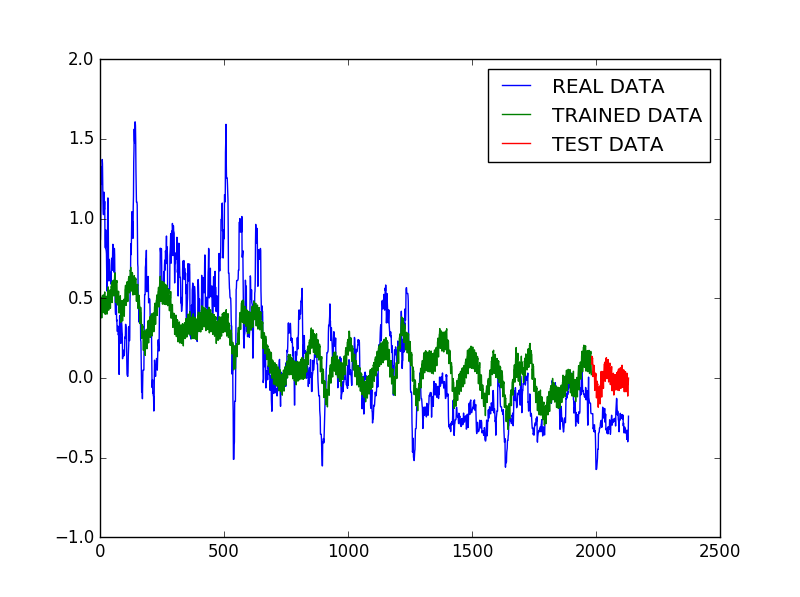
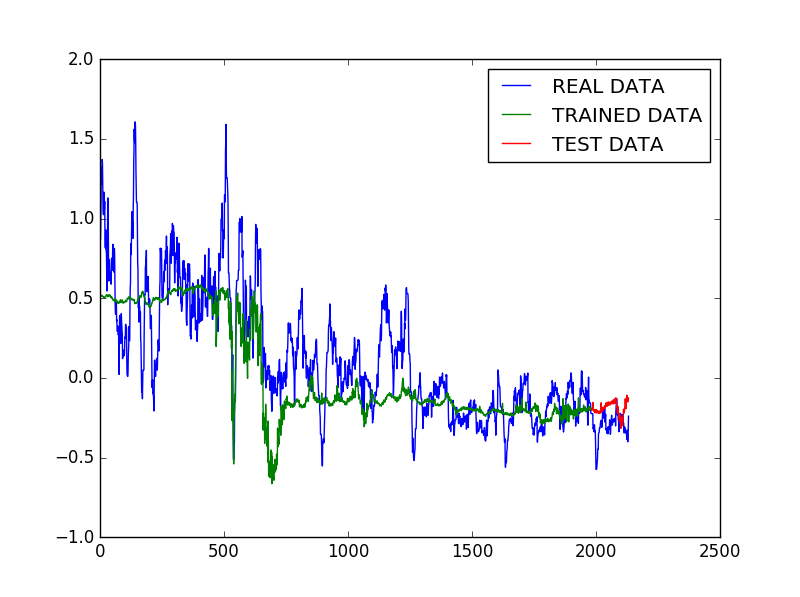
Added RELU

Changed region(s): [[0.125, 0.4523, 0.8125, 0.8141]]

diff --git a/tf_benchmark.py b/tf_benchmark.py
@@ -59,13 +59,13 @@ biases = {
 
 # Create model
 def multilayer_perceptron(x):
-    layer_1 = tf.add(tf.matmul(x, weights['h1']), biases['b1'])
-    layer_2 = tf.add(tf.matmul(layer_1, weights['h2']), biases['b2'])
-    layer_3 = tf.add(tf.matmul(layer_2, weights['h3']), biases['b3'])
-    layer_4 = tf.add(tf.matmul(layer_3, weights['h4']), biases['b4'])
-    layer_5 = tf.add(tf.matmul(layer_4, weights['h5']), biases['b5'])
-    layer_6 = tf.add(tf.matmul(layer_5, weights['h6']), biases['b6'])
-    layer_7 = tf.add(tf.matmul(layer_6, weights['h7']), biases['b7'])
+    layer_1 = tf.nn.relu(tf.add(tf.matmul(x, weights['h1']), biases['b1']))
+    layer_2 = tf.nn.relu(tf.add(tf.matmul(layer_1, weights['h2']), biases['b2']))
+    layer_3 = tf.nn.relu(tf.add(tf.matmul(layer_2, weights['h3']), biases['b3']))
+    layer_4 = tf.nn.relu(tf.add(tf.matmul(layer_3, weights['h4']), biases['b4']))
+    layer_5 = tf.nn.relu(tf.add(tf.matmul(layer_4, weights['h5']), biases['b5']))
+    layer_6 = tf.nn.relu(tf.add(tf.matmul(layer_5, weights['h6']), biases['b6']))
+    layer_7 = tf.nn.relu(tf.add(tf.matmul(layer_6, weights['h7']), biases['b7']))
     out_layer = tf.matmul(layer_7, weights['out']) + biases['out']
     return out_layer
 
